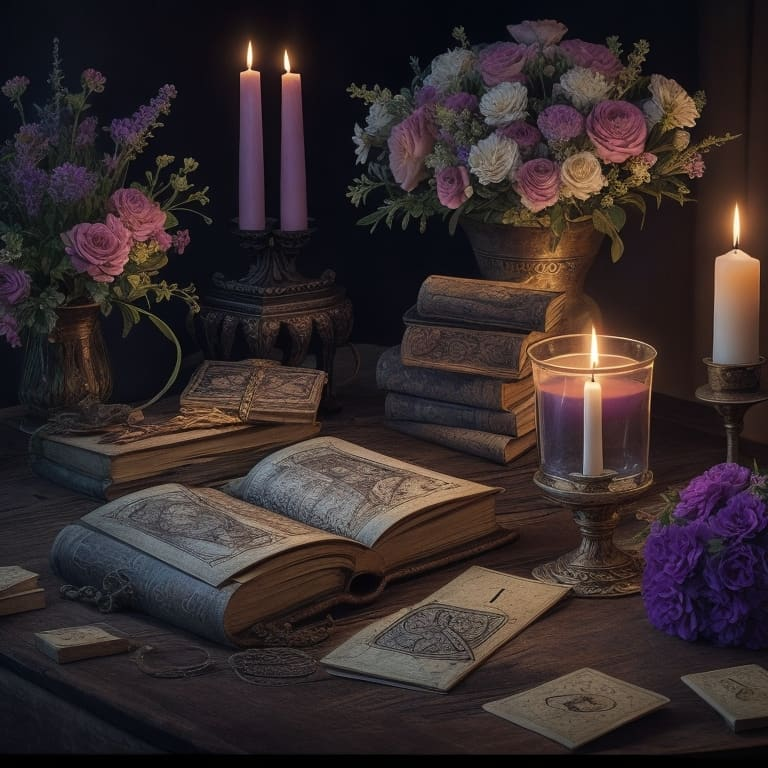
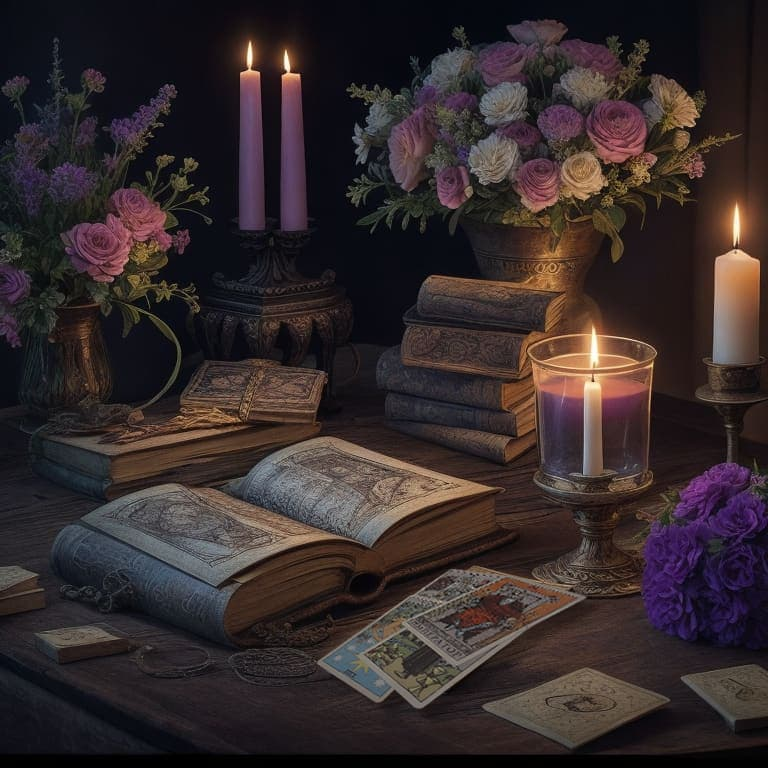
Elements centerd in index page

Changed region(s): [[0.4062, 0.7188, 0.75, 0.9375]]

diff --git a/src/components/DecorativePanel.vue b/src/components/DecorativePanel.vue
@@ -75,8 +75,11 @@ header {
 }
 
 .main {
- width: 100%;
- flex-grow: 2;
+  display: flex;
+  flex-direction: column;
+  justify-content: center;
+  width: 100%;
+  flex-grow: 2;
 }
 
 .panel-name {

diff --git a/src/components/readings/TarotAnswer0.vue b/src/components/readings/TarotAnswer0.vue
@@ -7,7 +7,7 @@
 </template>
 
 <script setup lang="ts">
-import { ref, computed } from 'vue';
+import { computed } from 'vue';
 import { useReadingStore } from 'src/stores/reading-store';
 
 
